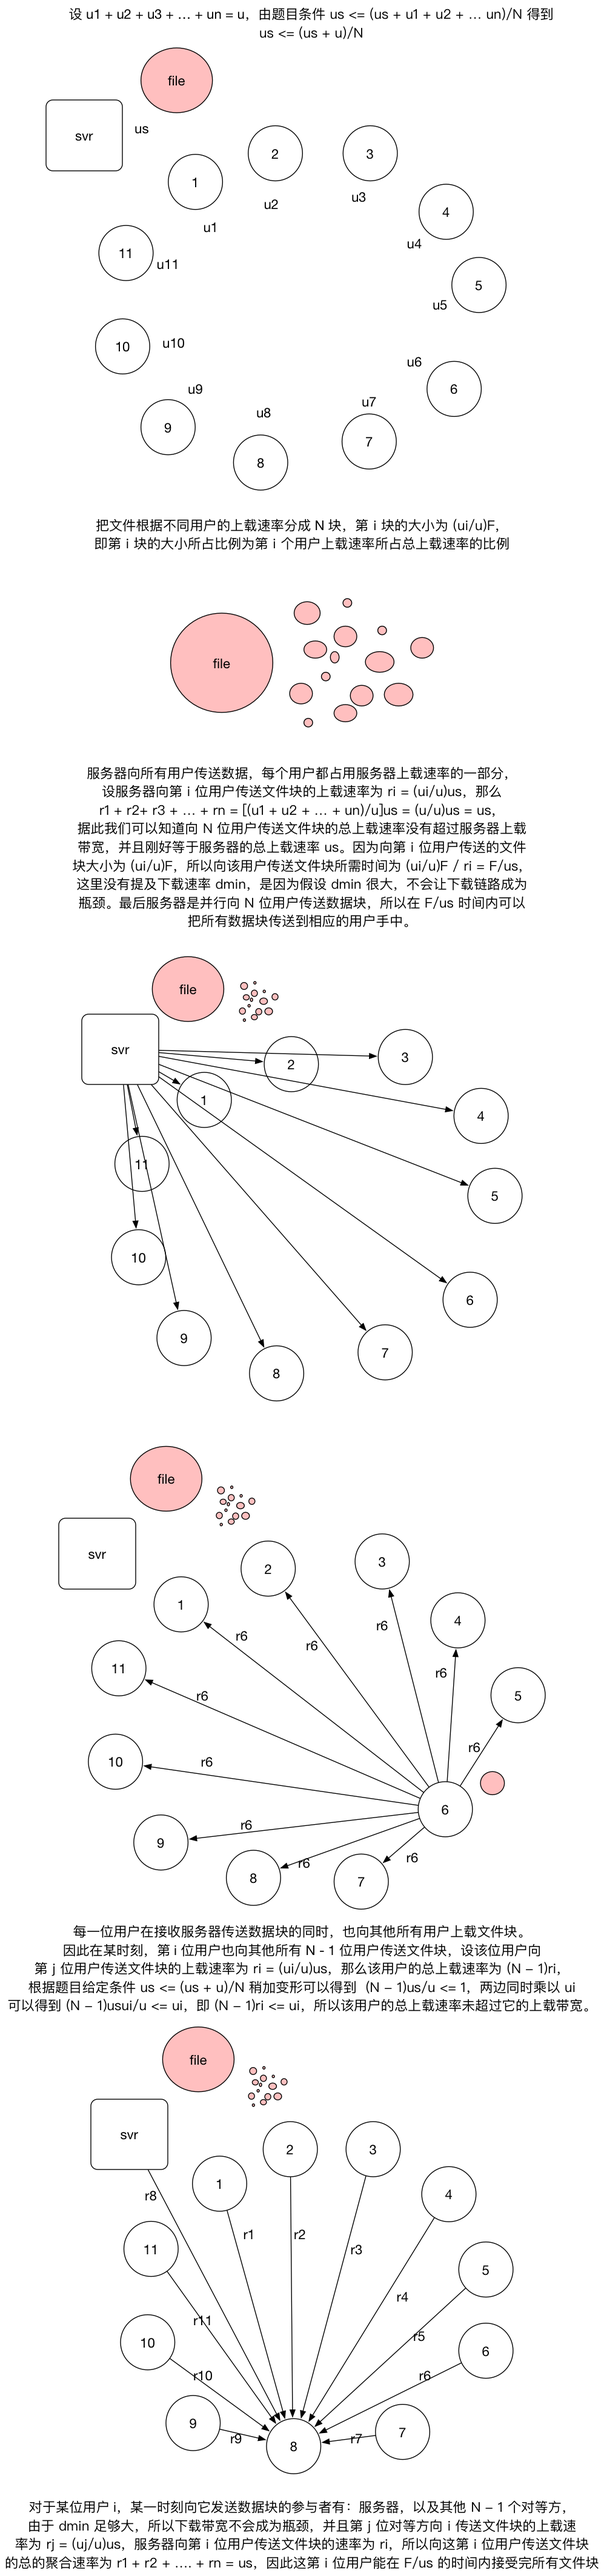
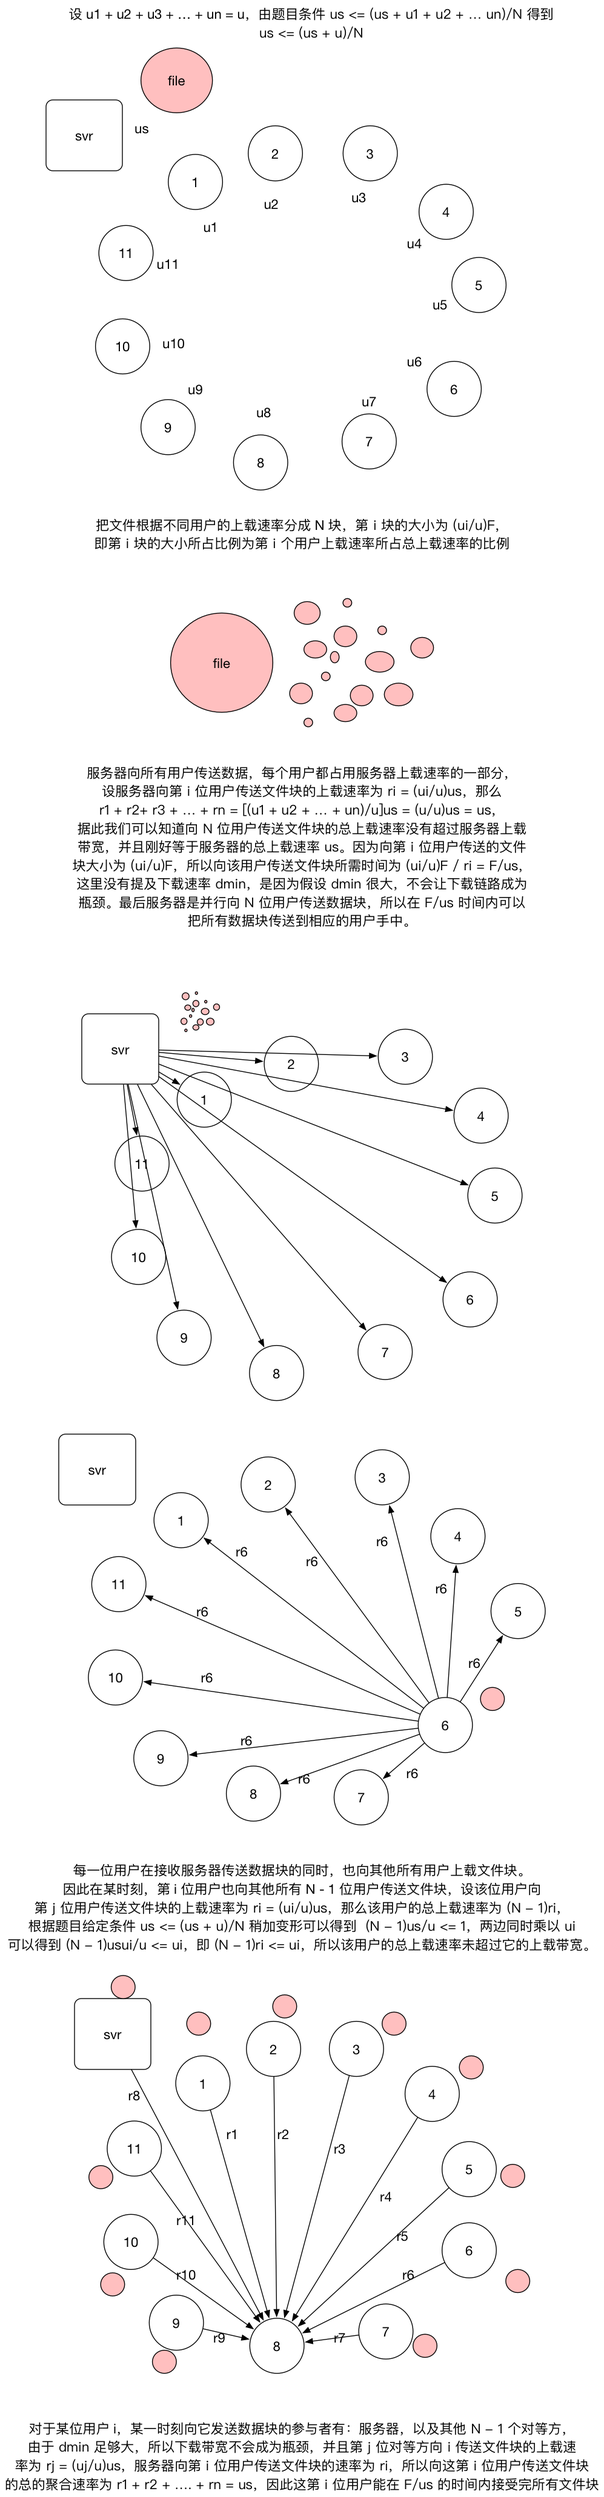
计算机网络应用层 p24

diff --git a/02 应用层/习题解答.md b/02 应用层/习题解答.md
@@ -679,12 +679,19 @@ pdns1.ultradns.net
 
 > a.
 > 
-> 分发方案是：将文件 F 分为 N 个块，每个块大小为 (ui/u)F 比特，服务器向第 i 位用户传送第 i 个文件块的上载速率为 (ui/u)us，用户 i 向所有 N - 1 个对等方传送自己拥有的文件块的上载速率为 (ui/u)us。
+> 分发方案是：将文件 F 分为 N 个块，每个块大小为 (ui/u)F 比特，服务器并行地向第 i 位用户以上载速率 (ui/u)us 传送第 i 个文件块，每个对等方向其他所有 N - 1 个对等方以上载速率 (ui/u)us 传送自己拥有的文件块。
 > 
 > 分析见下图所示:
 > 
 > ![](https://github.com/YangXiaoHei/Networking/blob/master/02%20应用层/images/p24.1.png)
 > 
+> b.
+> 
+> 分发方案是：将文件 F 分为 N + 1 个块，服务器并行地使用上载速率 (us - u/(N-1))/N 向所有用户传送第 N + 1 个块，同时并行地对第 i 个用户以上载速率 ui/(N-1) 传送第 i 个文件块。每个对等方向其他所有 N - 1 个对等方以上载速率 ui/(N-1) 传送自己拥有的文件块。
+> 
+> 分析见下图所示：
+> 
+> ![](https://github.com/YangXiaoHei/Networking/blob/master/02%20应用层/images/p24.2.png)
 
 #### P25 考虑在一个有 N 个活跃对等方的覆盖网络中，每对对等方有一条活跃的 TCP 连接。此外，假定该 TCP 连接通过总共 M 台路由器。在对应的覆盖网络中，有多少结点和边？
 
